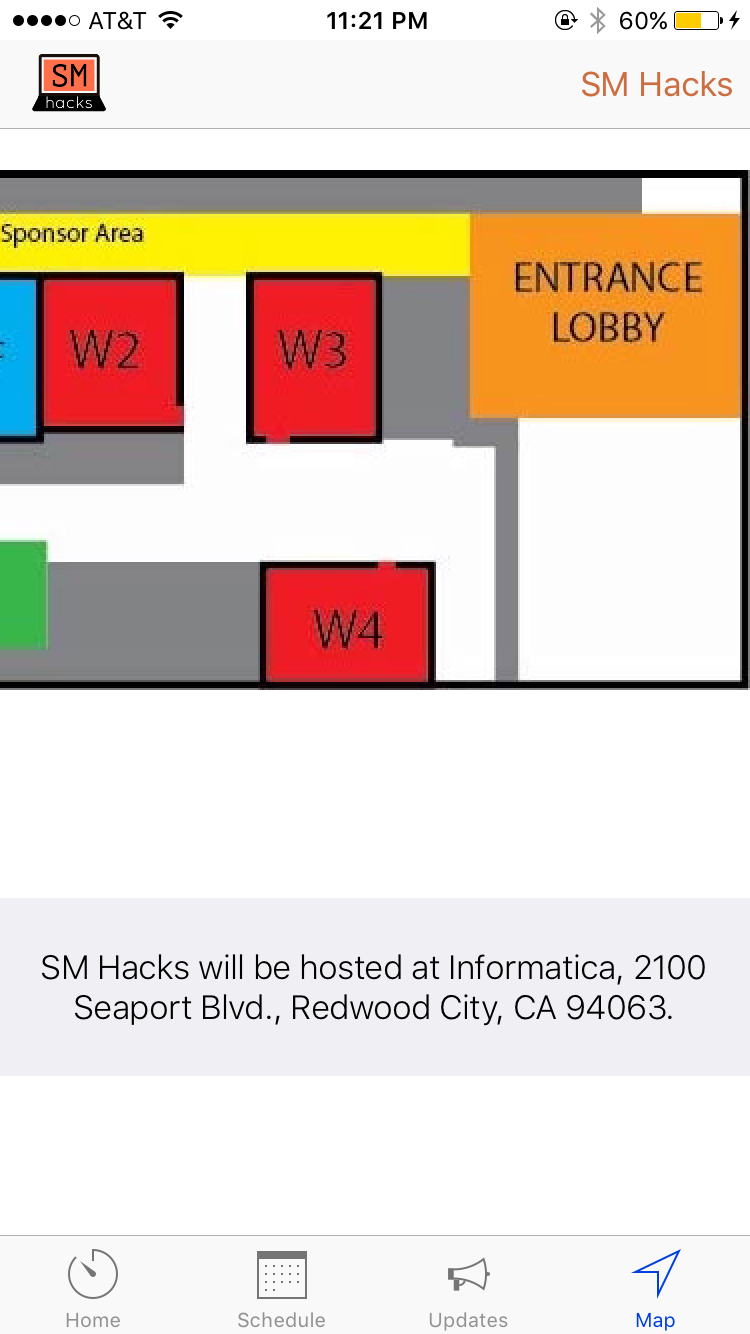
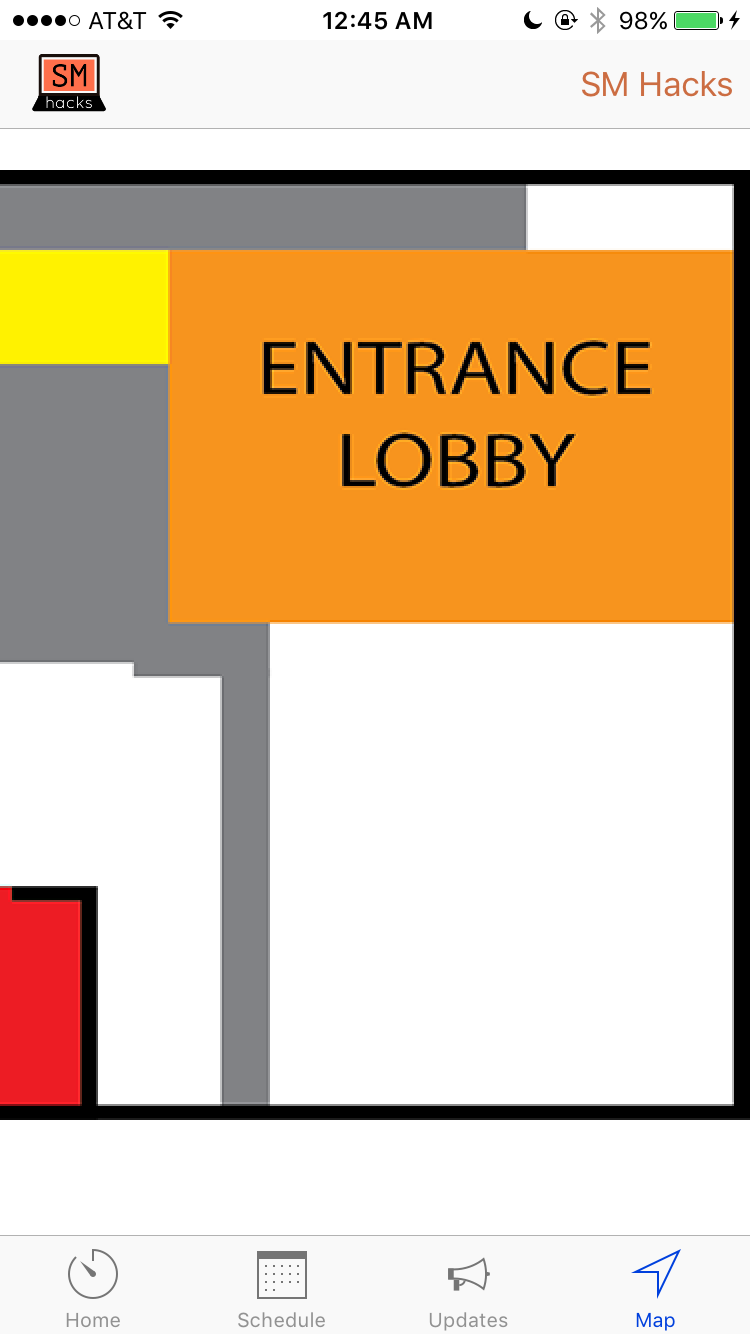
alkndflaksdnfa

diff --git a/SM Hacks/ViewControllers/MapViewController.swift b/SM Hacks/ViewControllers/MapViewController.swift
@@ -17,9 +17,10 @@ class MapViewController: UIViewController {
     
     override func viewDidLoad() {
         super.viewDidLoad()
-        imageView = UIImageView(image: UIImage(named: "floorplan.jpg"))
         
-        imageView.contentMode = .scaleAspectFill
+        imageView = UIImageView(image: UIImage(named: "floorplan-copy.png"))
+        
+        imageView.contentMode = .scaleAspectFit
         imageView.isUserInteractionEnabled = true
 
         scrollViewWindow.contentSize = imageView.bounds.size
